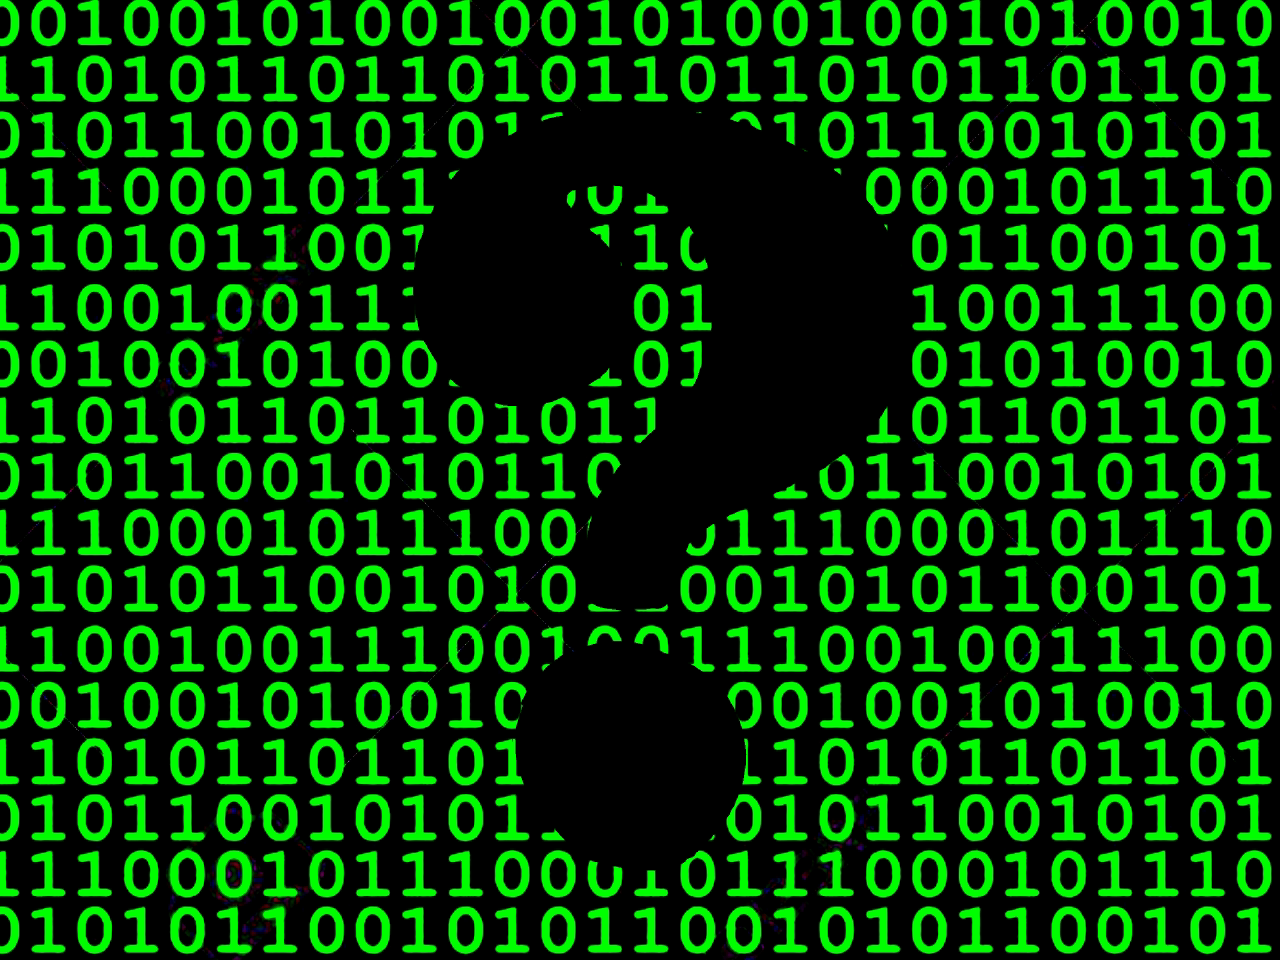
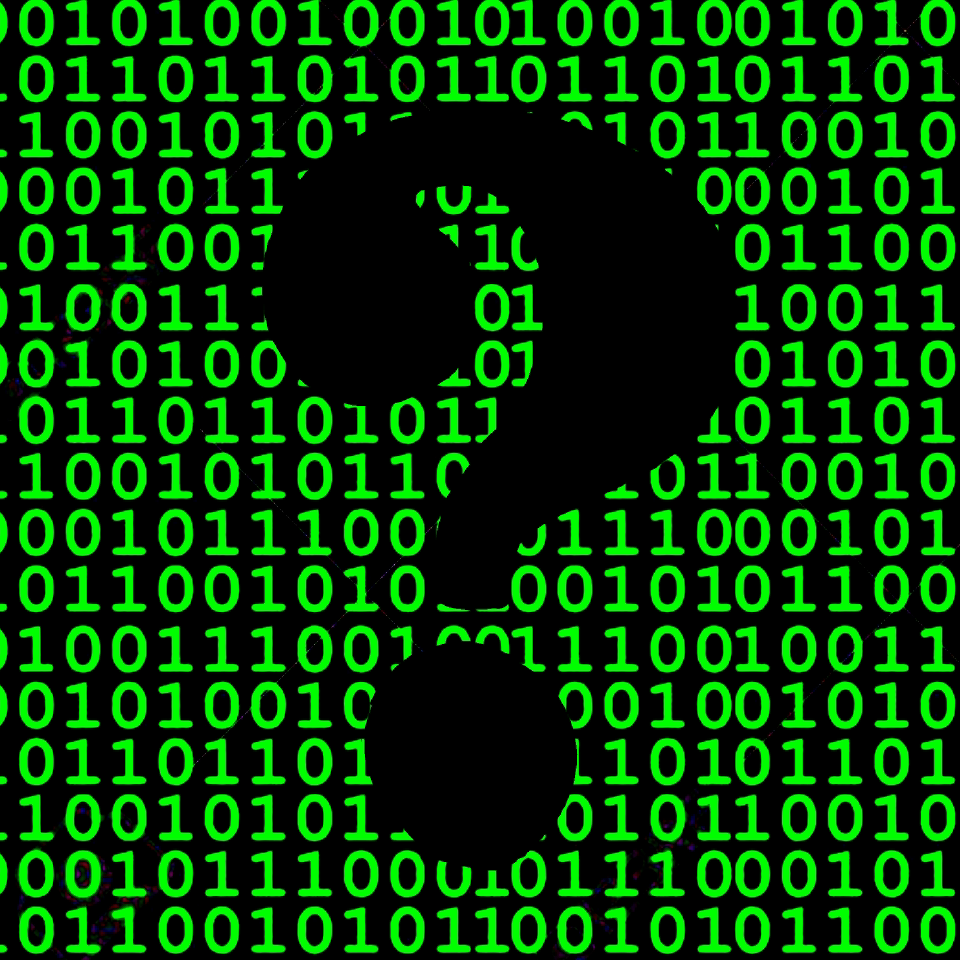
Add content to each page
This adds current content to each page on the site, as well as the necessary images.

diff --git a/css/main.css b/css/main.css
@@ -5,7 +5,7 @@ body {
     flex-direction: column;
     padding: 0;
     margin: 0;
-    font-family: "FiraCode Nerd Font Mono", sans-serif;
+    font-family: sans-serif;
 }
 
 body a {
@@ -34,6 +34,7 @@ nav ul {
 
 nav li {
     margin: 2% 0;
+    display: block;
     border-bottom: 1px dotted grey;
 }
 
@@ -45,8 +46,28 @@ h2 {
     margin: 3%;
 }
 
+h3 {
+    margin: 4% 0 0 2%;
+}
+
+main img {
+    float: left;
+    width: 20%;
+    border-radius: 100%;
+    border: 2px solid white;
+    margin: 4% 4% 0;
+}
+
+main p {
+    text-indent: 4ch;
+    margin: 4%;
+}
+
 footer {
-    background-color: #3a3a3a
+    background-color: #3a3a3a;
+    position: fixed;
+    bottom: 0;
+    width: 100%;
 }
 
 footer ul {
@@ -67,8 +88,33 @@ footer p {
     background-color: #1f1f1f;
     text-align: right;
     margin-top: 3%;
-    padding-right: 2%;
     margin-bottom: 0;
+    padding-right: 2%;
+    margin-left: 0;
+}
+
+section {
+    display: grid;
+    gap: 3%;
+    grid-template-columns: repeat(auto-fit, minmax(400px, 1fr));
+}
+
+.card {
+    border: 1px solid white;
+}
+
+.card p {
+    margin: 3%;
+}
+
+.card img {
+    border-radius: unset;
+    border: none;
+    width: 40%;
+}
+
+.email {
+    margin-bottom: 100px;
 }
 
 @media (min-width: 800px) {
@@ -88,10 +134,50 @@ footer p {
         display: inline;
         text-align: center;
         margin: 0 6%;
-        border: 1px dotted white;
+    }
+
+    h2 {
+        margin-bottom: 2%;
+    }
+
+    main {
+        border: 1px solid cyan;
+        box-shadow: 0 0 10px cyan;
+    }
+
+    main img {
+        width: 10%;
+        float: left;
+        margin: 2%;
+        border-radius: unset;
+        border: 1px solid cyan;
+        box-shadow: 0 0 10px cyan;
+    }
+
+    main p {
+        margin: 3%;
+        border: unset;
+        font-size: 120%;
+    }
+
+    footer {
+        position: unset;
     }
 
     footer p {
         margin-top: 0;
+    }
+
+    .card {
+        border: 1px solid cyan;
+        box-shadow: 0 0 10px cyan;
+    }
+
+    .email {
+        margin-bottom: 3%;
+    }
+
+    .email h3 {
+        margin-top: 5%;
     }
 }

diff --git a/socials/default.html b/socials/default.html
@@ -22,7 +22,51 @@
 </header>
 
 <main>
-
+	<section>
+		<div class="card">
+			<h3><a href="https://fosstodon.org/@Anonymous4045" rel="me">Mastodon</a></h3>
+			<img alt="Mastodon logo" src="../img/mastodon.png">
+			<p>
+				Mastodon is a decentralized, federated microblogging platform. It's made up of many instances,
+				each with its own rules and focus. The instance my account is on is
+				<a href="https://fosstodon.org">Fosstodon</a>, a community focussed around free and open source
+				software.
+			</p></div>
+		
+		<div class="card">
+			<h3><a href="https://github.com/Anonymous4045" rel="me">GitHub</a></h3>
+			<img alt="GitHub logo" src="../img/github.png">
+			<p>
+				<a href="https://github.com">GitHub</a> is a code hosting service and collaboration platform owned by
+				Microsoft. I host all of my projects on there and contribute to a few open source projects.
+			</p></div>
+		
+		<div class="card"><h3>Discord</h3>
+			<img alt="Discord's banner" src="../img/discord.jpg">
+			<p>
+				<a href="https://discord.com">Discord</a> is a social media platform centered around finding communities
+				of like-minded people. I
+				primarily am active in the <a href="https://discord.gg/python">Python Discord Server</a>, but I'm in a
+				few other linux ones as well.
+			</p></div>
+		
+		<div class="card">
+			<h3><a href="https://stackoverflow.com/users/17527880/anonymous?tab=profile">Stack Overflow</a></h3>
+			<img alt="Stack Overflow's logo" src="../img/stackoverflow.jpg">
+			<p>
+				<a href="https://stackoverflow.com">Stack Overflow</a> is a programming Q&A platform. I have recieved
+				many great answers from there, and try to contribute some myself.
+			</p>
+		</div>
+	</section>
+	
+	<div class="email">
+	<h3><a href="mailto:contact@anonymous4045.social">Email</a></h3>
+	<p>
+		My email is contact@Anonymous4045.social. My provider is Titan mail, which lets me use this domain for the
+		address.
+	</p>
+	</div>
 </main>
 
 <footer>

diff --git a/about/default.html b/about/default.html
@@ -22,7 +22,19 @@
 </header>
 
 <main>
-
+	<h3>What is this site?</h3>
+	<p>
+		This is my personal website. I made it purely in HTML and CSS with the skills I obtained from my intro to web
+		development college course. On here, I have links to my various social media accounts, contact information, and
+		(eventually) web games that I make.
+	</p>
+	<h3>Where is it hosted?</h3>
+	<p>
+		All the code is available <a href="https://github.com/Anonymous4045/Anonymous4o45.github.io">here</a> on GitHub
+		under the MIT license. It's hosted with GitHub Pages, which is free for students. I obtained this domain from
+		<a href="https://name.com">Name.com</a> for free from the partnership between the GitHub Student Developer Pack
+		and Name.com.
+	</p>
 </main>
 
 <footer>

diff --git a/index.html b/index.html
@@ -22,7 +22,13 @@
 </header>
 
 <main>
-
+	<img alt="Question mark surrounded by 1's and 0's" src="img/profile_picture.png">
+	
+	<p>
+		Hey! I'm Anonymous4045. I'm a hobbyist programmer and a student in both high school and college. I like to make
+		games, websites, Discord bots, and other fun applications. I primarily have worked in Python, but I know HTML,
+		CSS, and some C#. I'm planning on learning Rust, so I can make games with WebAssembly and post them here.
+	</p>
 </main>
 
 <footer>

diff --git a/games/default.html b/games/default.html
@@ -22,7 +22,10 @@
 </header>
 
 <main>
-
+	<p>
+		There are currently no games here. In the future, I plan to create games with the Bevy engine and compile them
+		to WebAssembly. When I do, I'll publish them here.
+	</p>
 </main>
 
 <footer>
